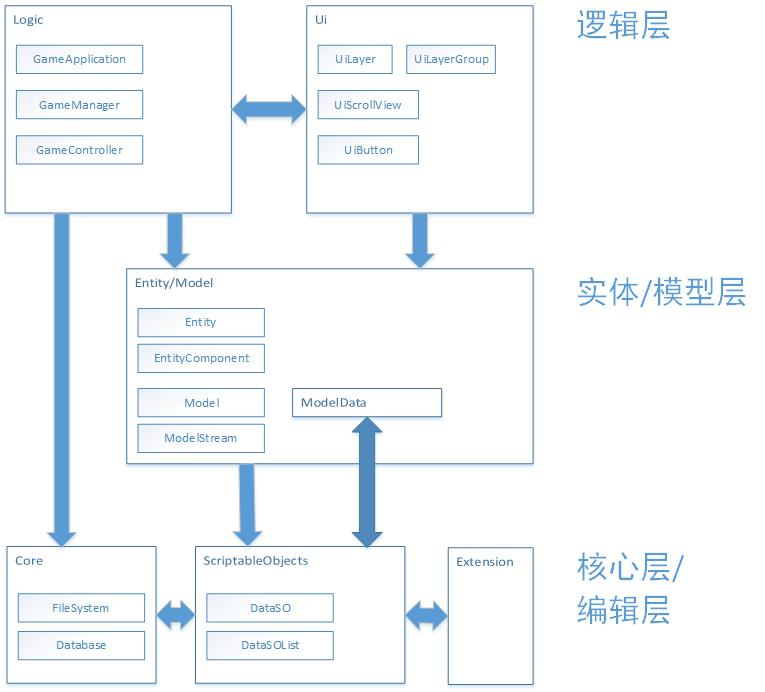
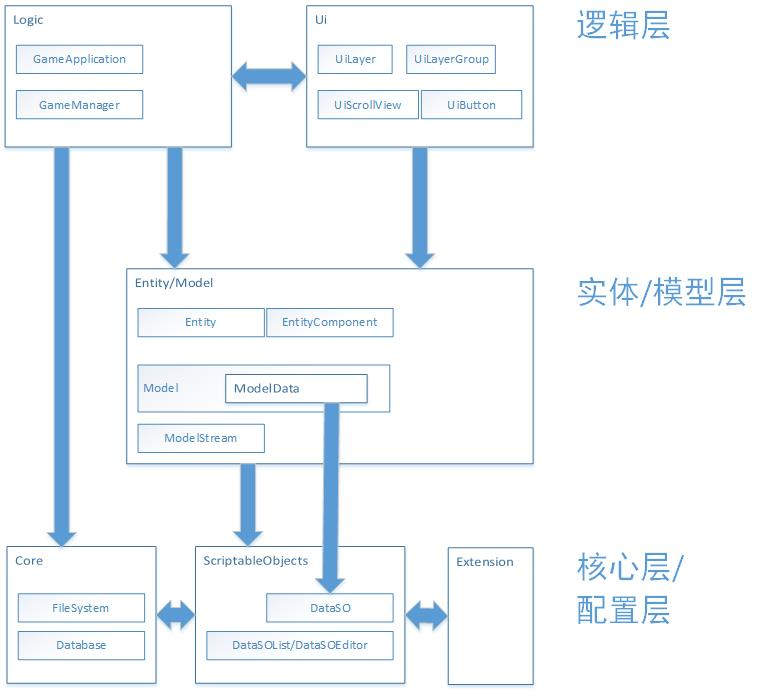
优化文档

diff --git a/MungFramework/Document/文档.md b/MungFramework/Document/文档.md
@@ -29,17 +29,9 @@ GameSaveableManager:继承自游戏管理器抽象类，可被存档系统保存
 >Save():将某些数据储存至当前存档中，但不会保存至硬盘，一般由SaveManager进行调用。
 >Load():从当前存档中读取某些数据，一般在需要使用数据时调用。
 
-GameExecutor:游戏执行器抽象类，用于执行某个游戏逻辑，受GameManager管理
-
 管理器与执行器的树形结构示意图：
 
 ![游戏管理器树形结构图](./游戏管理器树形结构图.jpg)
-
-约束：
-
-1. 游戏管理器不应承担详细的逻辑任务，例如：战斗管理器只能控制战斗的开始和结束等事件，不能用于操控角色，而操控角色应分配给战斗管理器下的操控执行器。
-2. 在管理器与执行器的树形结构中，执行器只能当作叶节点。
-3. 树形结构图为有向无环图，且除根节点(Application节点)外，每个节点的入度为1
 
 #### InputManager
 
@@ -126,14 +118,17 @@ public class TestEditor : DataSOEditorWindow<SOTest>
 
 #### ActionTreeEditor
 
->行为树编辑器
+>基于孩子兄弟二叉树的行为树
 
 行为树示意图:
 
 ![行为树示意图](./行为树示意图.jpg)
 
->Next节点代表下一节点
-AtTime节点代表同时进行的节点
+>○  该行为树中，每个节点有两个子节点，分别是“Next”节点与“AtTime”节点
+○  Next节点表示当前节点完成后需要执行的下一个节点，AtTime节点表示与当前节点同时执行的节点
+○  AtTime节点也可作为分支使用，例如当前节点不满足执行条件，则执行AtTime节点
+○  对于“同时执行”的用法，则可以分为“同步同时”与“异步同时”,即当前节点是否需要等待同时执行的内容完成后才进入下一节点
+○  通过以上条件配合，能够完成的游戏流程、演出、对话以及技能等配置
 
 一般来说 行为树的递归执行流程为
 
@@ -141,7 +136,7 @@ AtTime节点代表同时进行的节点
 DO(Node CurrentNode){
     1. 执行 CurrentNode 的事件
     2. DO(CurrentNode->AtTime)
-    3. 直到1，2步全部结束
+    3. 如果同步同时，则等待1，2步全部结束
     4. DO(Current->Next)
 }
 ```
@@ -211,9 +206,8 @@ namespace Mung.Name1
 
 SO文件约束：
 
-1. 同类型的SO文件应放在统一的位置；
-2. SO文件用于储存游戏中一些静态的数据，例如一个角色的初始数值，成长数值等；
-3. 在运行中不允许修改SO文件，只能通过SO文件来创建游戏中的模型；
+1. SO文件用于储存游戏中一些静态的数据，例如一个角色的初始数值，成长数值等；
+2. 在运行中不允许修改SO文件，只能通过SO文件来创建游戏中的模型；
 
 #### DataSO
 

diff --git a/README.md b/README.md
@@ -6,7 +6,7 @@
 
 1. 适用于PC单机游戏的快速开发，特别适合gamejam的开发；
 2. 清晰的代码风格，容易理解；
-3. 简单易用，只需要实现抽象类即可实现大部分功能，减少代码编写量；
+3. “管理器-实体-模型-配置”四层结构，灵活易用
 4. 树形管理器结构，逻辑清晰，易于调试；
 
 ## 依赖项
